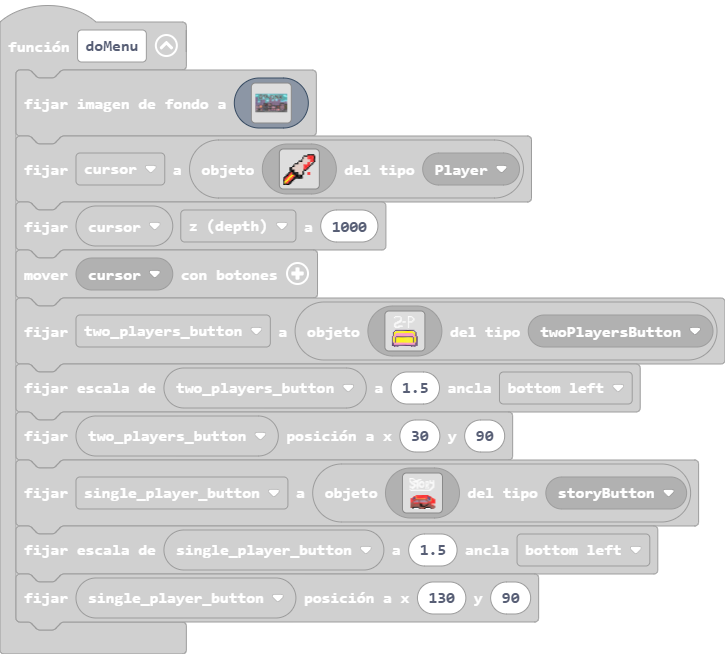
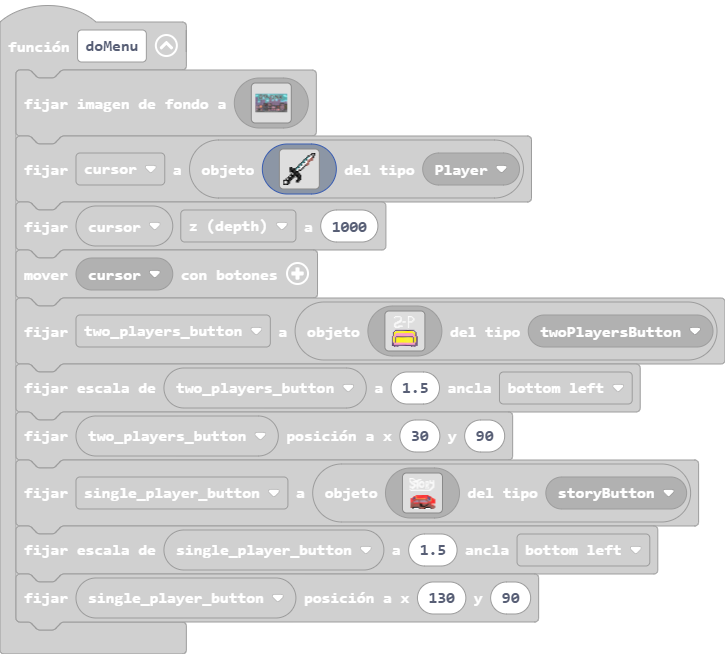
nuevo cuchillo (quizás falta retocar)

Changed region(s): [[0.3034, 0.1223, 0.4855, 0.3058], [0.3641, 0.0917, 0.3945, 0.1223]]

diff --git a/main.ts b/main.ts
@@ -375,31 +375,31 @@ function doMenu () {
         fffffffffffffffffffffffffffffffffffffffffffffffffffffffffffffffffffffffffffffffffffffffffffffffffffffffffffffffffffffffffffffffffffffffffffffffffffffffffffffff
         `)
     cursor = sprites.create(img`
-        .........................
-        ...................fffff.
-        ................fff22222f
-        ...............fddd22222f
-        ...............fddd22222f
-        ..............fdddddd222f
-        ............fffdddddd222f
-        ...........fddddddd22ddf.
-        .........fffddddddd22df..
-        ........fddddddd22222f...
-        .......ffddddddd2222f....
-        .....ffddddddddd222f.....
-        .....ffddddddddd22f......
-        .....ffffdddddddff.......
-        .....ffffddddddf.........
-        ....ff2fffffdddf...22....
-        ...ff22fffffdddf...22....
-        ..ff22552ffffff..........
-        .ff225522ffffff..........
-        ff225522fffffff..........
-        f225522ff................
-        f25522ff.................
-        f5522ff..................
-        f522ff...................
-        fffff....................
+        ......................fff
+        .....................ff1f
+        ...................ff11f.
+        ..................f611ef.
+        .................f611ee..
+        ................f6f1eee..
+        ...............f611ee....
+        ..............f6f11e.....
+        .............f6111ee.....
+        ............f6f11fe......
+        ...........f6111f........
+        .....ff...f6f11f.........
+        .....fffff6111f..........
+        .....fffff11ff...........
+        .....fffffff.............
+        .......fffff.............
+        ......f1fffff............
+        .....fffffffff...........
+        ....f1fff.ffff...........
+        ...fffff...fff...........
+        ..f1fff....fff...........
+        ffffff....fff............
+        f11ff.....ff.............
+        f11ff....................
+        ffff.....................
         `, SpriteKind.Player)
     cursor.z = 1000
     controller.moveSprite(cursor)

diff --git a/main.py b/main.py
@@ -378,31 +378,31 @@ def doMenu():
                 fffffffffffffffffffffffffffffffffffffffffffffffffffffffffffffffffffffffffffffffffffffffffffffffffffffffffffffffffffffffffffffffffffffffffffffffffffffffffffffff
     """))
     cursor = sprites.create(img("""
-            .........................
-                    ...................fffff.
-                    ................fff22222f
-                    ...............fddd22222f
-                    ...............fddd22222f
-                    ..............fdddddd222f
-                    ............fffdddddd222f
-                    ...........fddddddd22ddf.
-                    .........fffddddddd22df..
-                    ........fddddddd22222f...
-                    .......ffddddddd2222f....
-                    .....ffddddddddd222f.....
-                    .....ffddddddddd22f......
-                    .....ffffdddddddff.......
-                    .....ffffddddddf.........
-                    ....ff2fffffdddf...22....
-                    ...ff22fffffdddf...22....
-                    ..ff22552ffffff..........
-                    .ff225522ffffff..........
-                    ff225522fffffff..........
-                    f225522ff................
-                    f25522ff.................
-                    f5522ff..................
-                    f522ff...................
-                    fffff....................
+            ......................fff
+                    .....................ff1f
+                    ...................ff11f.
+                    ..................f611ef.
+                    .................f611ee..
+                    ................f6f1eee..
+                    ...............f611ee....
+                    ..............f6f11e.....
+                    .............f6111ee.....
+                    ............f6f11fe......
+                    ...........f6111f........
+                    .....ff...f6f11f.........
+                    .....fffff6111f..........
+                    .....fffff11ff...........
+                    .....fffffff.............
+                    .......fffff.............
+                    ......f1fffff............
+                    .....fffffffff...........
+                    ....f1fff.ffff...........
+                    ...fffff...fff...........
+                    ..f1fff....fff...........
+                    ffffff....fff............
+                    f11ff.....ff.............
+                    f11ff....................
+                    ffff.....................
         """),
         SpriteKind.player)
     cursor.z = 1000
